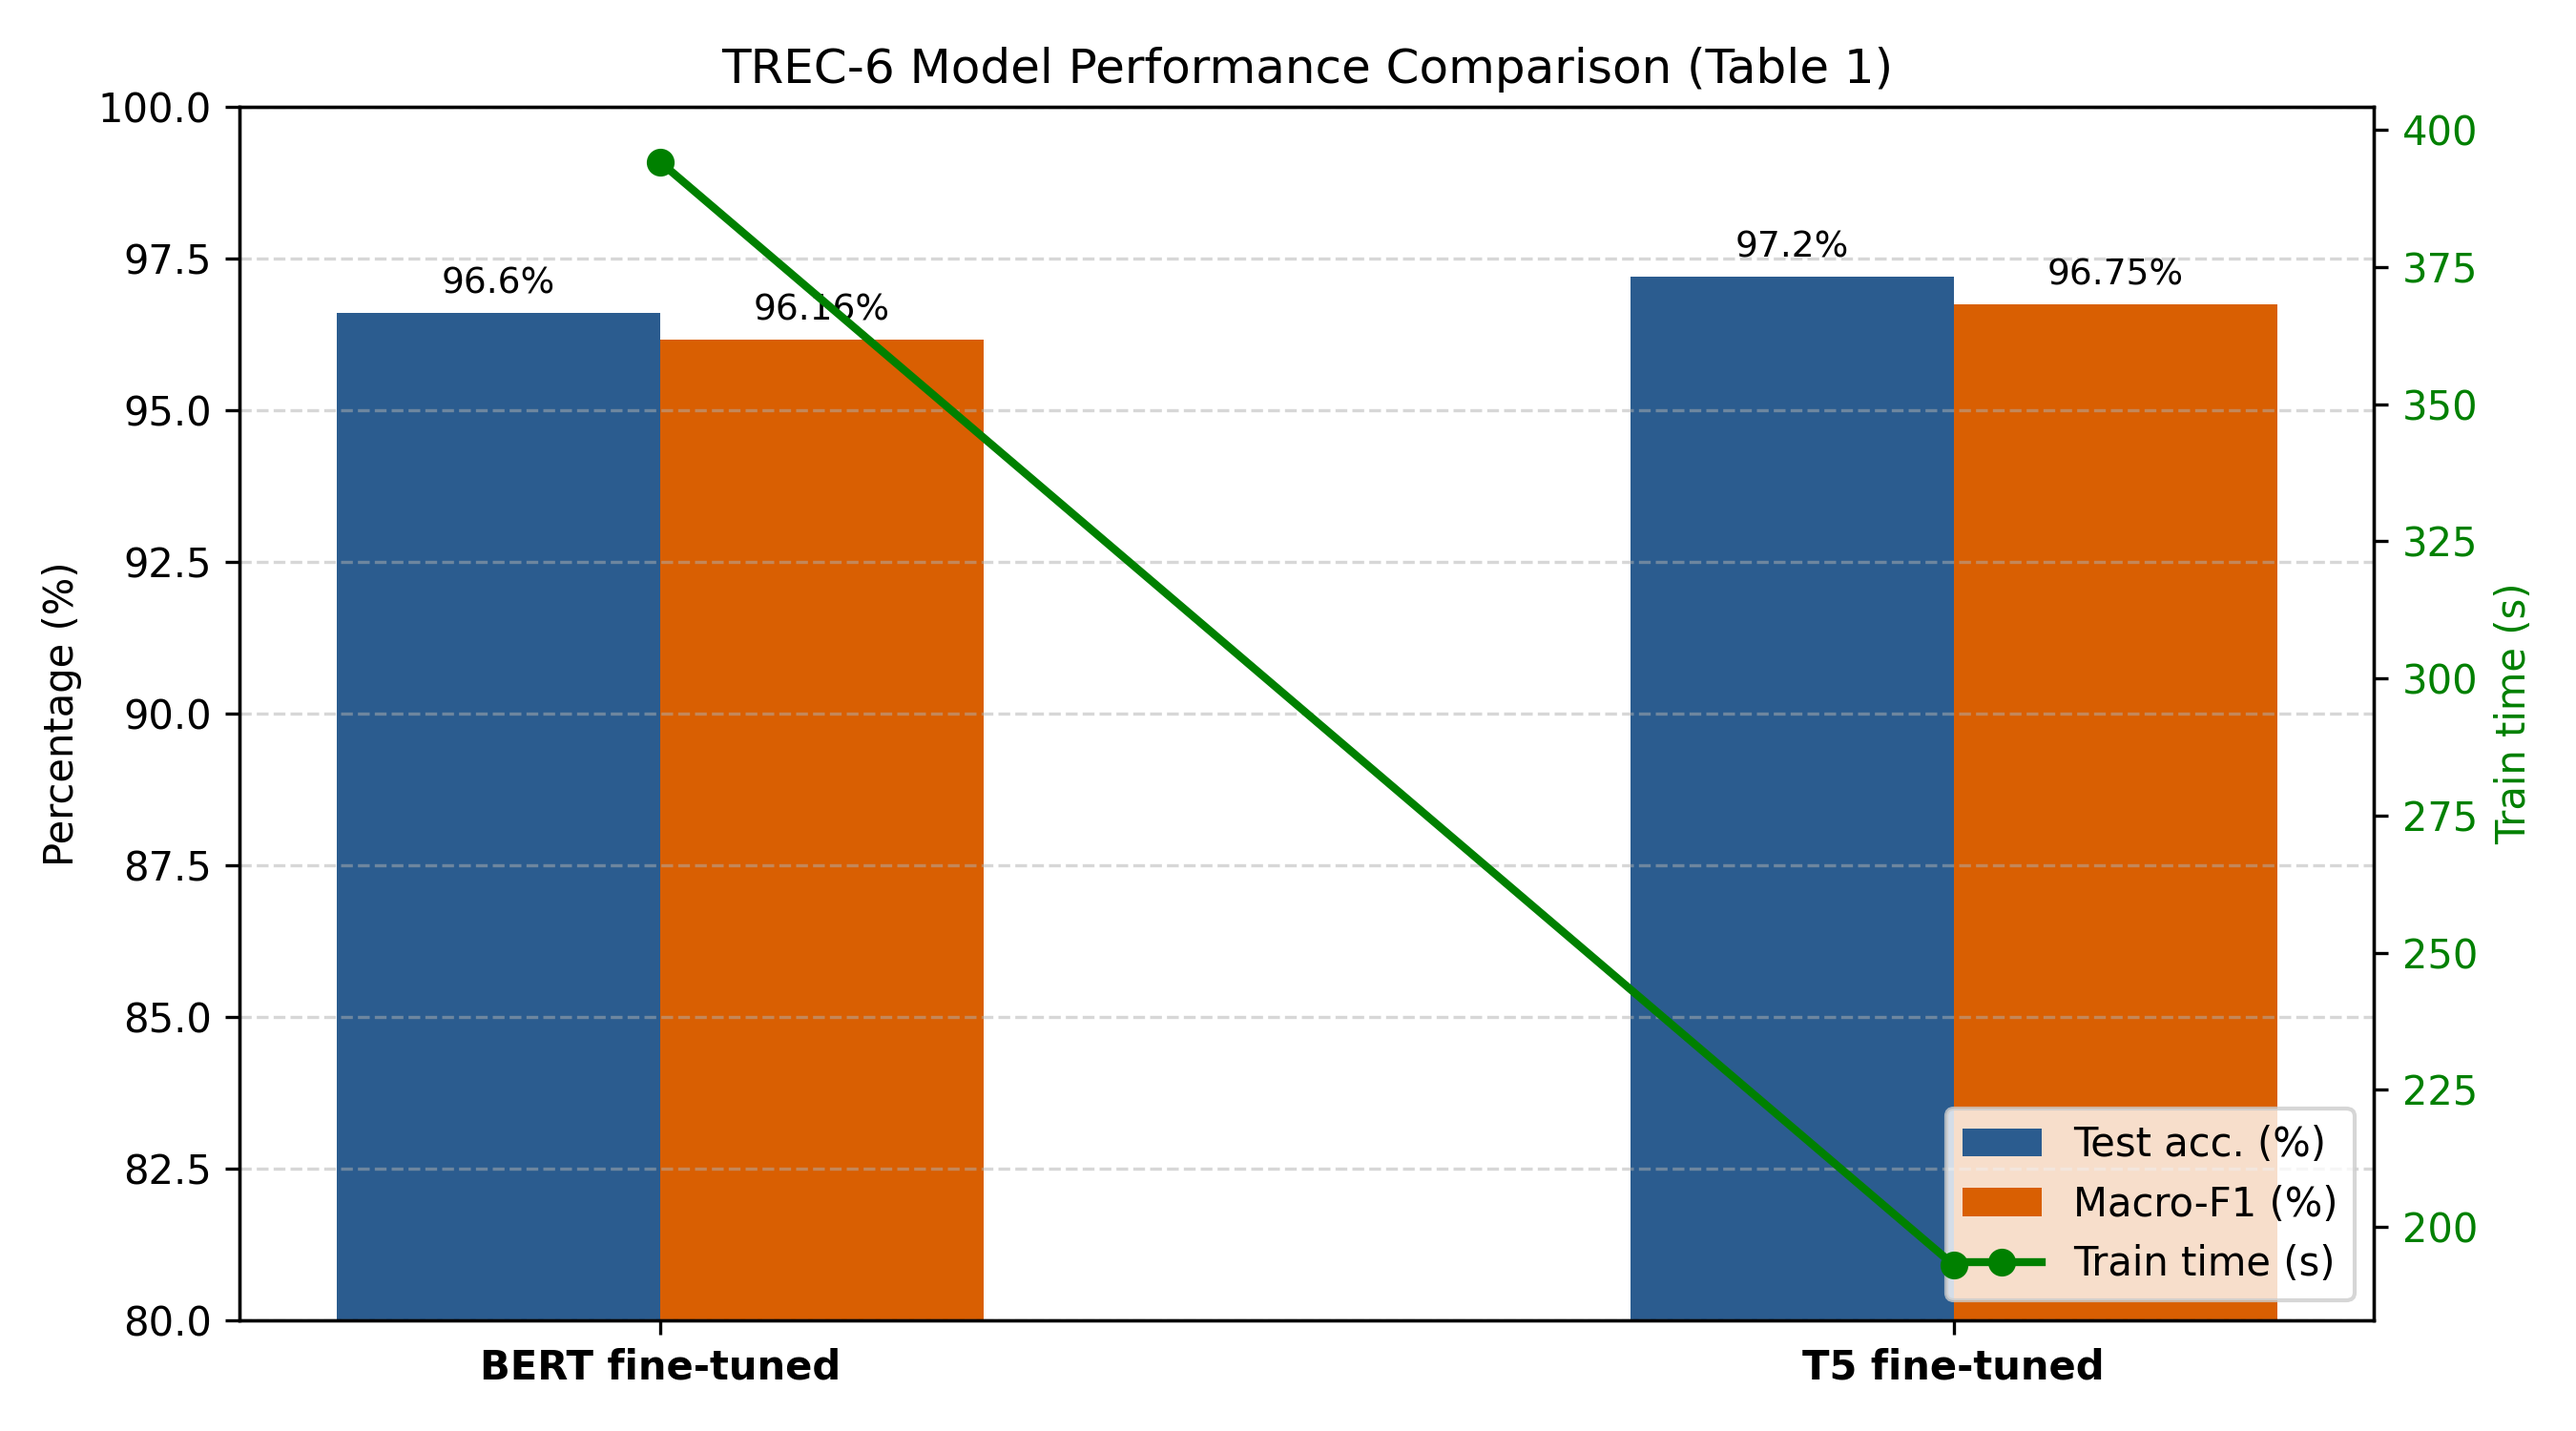
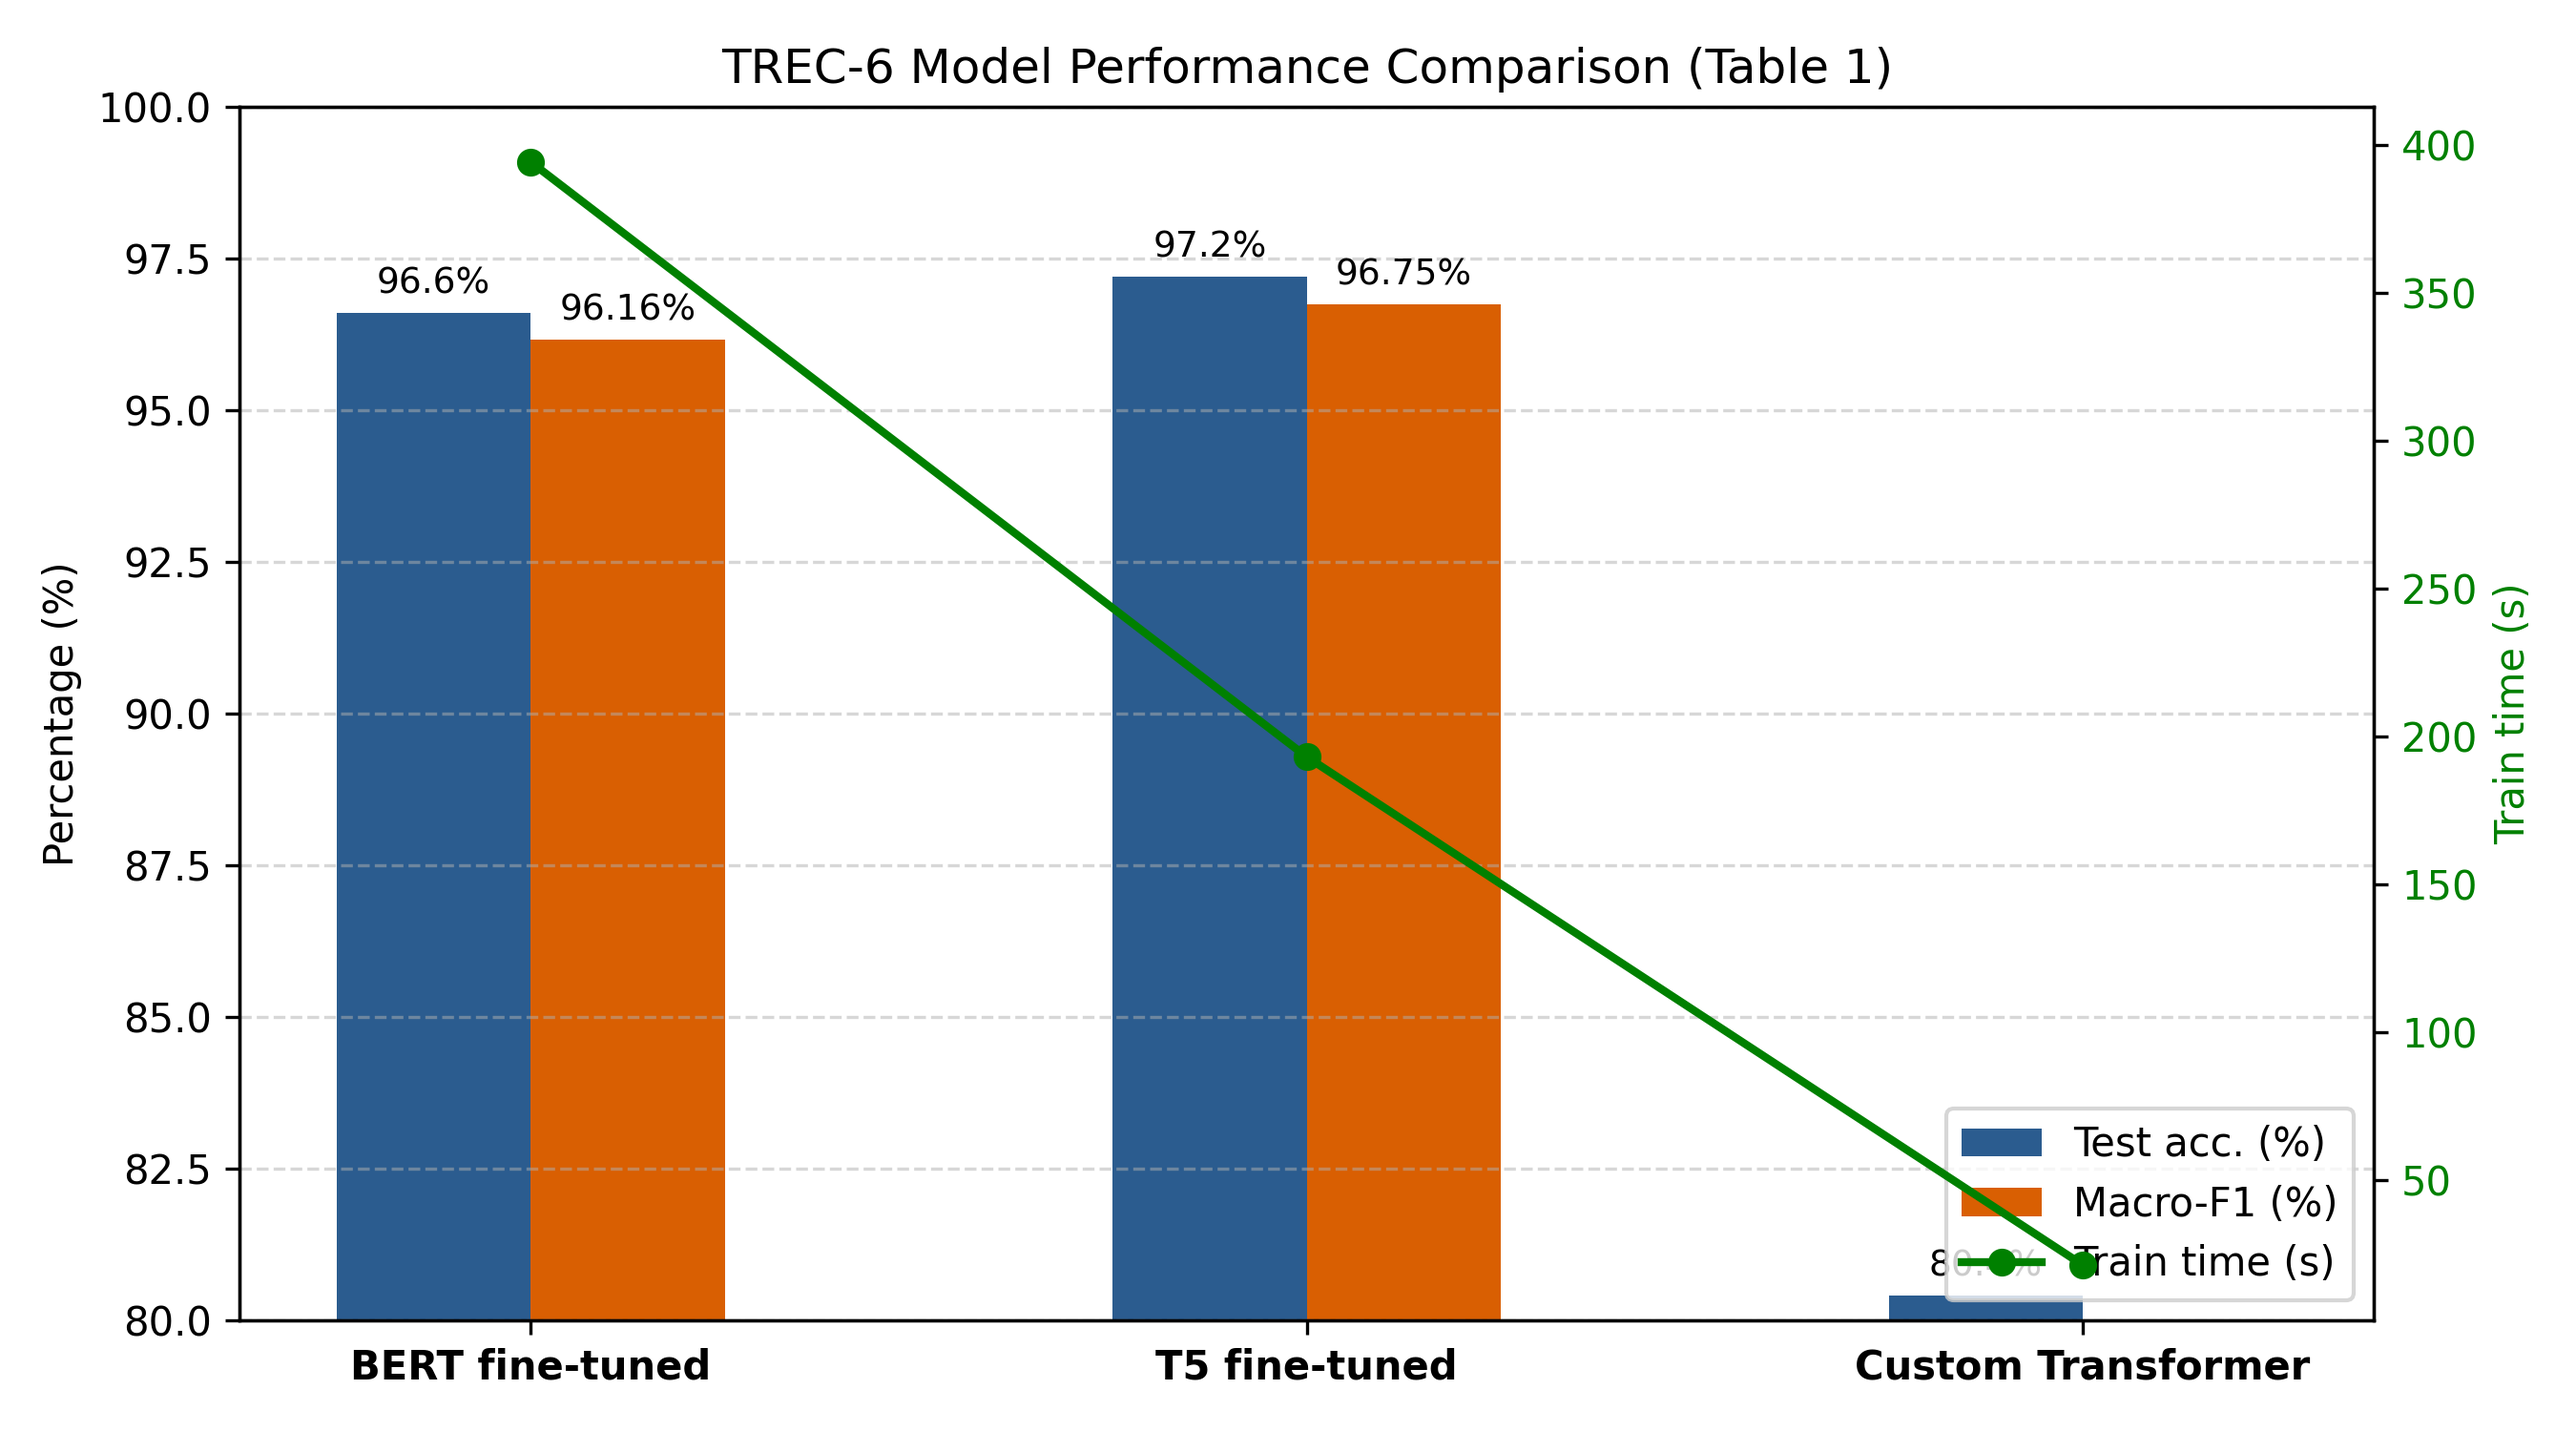
Results from Task 3.2b -- without checkpoints

diff --git a/src/verify_custom_transformer.py b/src/verify_custom_transformer.py
@@ -1,0 +1,109 @@
+import torch
+import torch.nn as nn
+from task_3_2_custom_transformer import CustomTransformerClassifier
+
+def run_verifications():
+    print("=" * 70)
+    print("      TASK 3.2.B: CORRECTNESS EVIDENCE & VERIFICATION AUDIT")
+    print("=" * 70)
+
+    vocab_size = 30522  # BERT tokenizer vocabulary size
+    model = CustomTransformerClassifier(
+        vocab_size=vocab_size,
+        d_model=128,
+        num_heads=4,
+        d_ff=512,
+        depth=2,
+        num_classes=6,
+        dropout=0.1
+    )
+
+    # --------------------------------------------------------------------------
+    # CHECK 1: Forward-Pass Shapes & Divisibility Verification
+    # --------------------------------------------------------------------------
+    print("\n[CHECK 1] Shape & Divisibility Verification:")
+    assert model.blocks[0].attn.d_model % model.blocks[0].attn.num_heads == 0, (
+        "d_model must be divisible by H!"
+    )
+    d_h = model.blocks[0].attn.d_h
+    print(f"  ✓ d_model (128) is perfectly divisible by H (4) -> d_h = {d_h}")
+
+    # Combination 1: Batch 8, Length 32
+    combo1_in = torch.randint(1, 1000, (8, 32))
+    combo1_mask = torch.ones(8, 32)
+    out1 = model(combo1_in, combo1_mask)
+    print(f"  Combo 1 Input: [8, 32]   --> Output Logits Shape: {list(out1.shape)} (Expected: [8, 6])")
+    assert out1.shape == (8, 6), "Combo 1 output shape mismatch!"
+
+    # Combination 2: Batch 16, Length 64
+    combo2_in = torch.randint(1, 1000, (16, 64))
+    combo2_mask = torch.ones(16, 64)
+    out2 = model(combo2_in, combo2_mask)
+    print(f"  Combo 2 Input: [16, 64]  --> Output Logits Shape: {list(out2.shape)} (Expected: [16, 6])")
+    assert out2.shape == (16, 6), "Combo 2 output shape mismatch!"
+
+    # --------------------------------------------------------------------------
+    # CHECK 2: Padding Invariance Audit (Dropout Disabled)
+    # --------------------------------------------------------------------------
+    print("\n[CHECK 2] Padding Invariance Audit (Dropout Disabled):")
+    model.eval()  # Disable dropout for deterministic evaluation
+
+    # Original sequence with 5 real tokens and 5 padded tokens (pad_id = 0)
+    ids_padded = torch.tensor([[101, 2054, 2003, 1037, 102, 0, 0, 0, 0, 0]])
+    mask_padded = torch.tensor([[1, 1, 1, 1, 1, 0, 0, 0, 0, 0]])
+
+    # Change token IDs ONLY at masked padding positions (indices 5..9)
+    ids_modified = torch.tensor([[101, 2054, 2003, 1037, 102, 999, 888, 777, 666, 555]])
+    mask_modified = torch.tensor([[1, 1, 1, 1, 1, 0, 0, 0, 0, 0]])
+
+    with torch.no_grad():
+        logits_orig = model(ids_padded, mask_padded)
+        logits_mod = model(ids_modified, mask_modified)
+
+    diff = torch.max(torch.abs(logits_orig - logits_mod)).item()
+    print(f"  Logits Max Absolute Difference: {diff:.8e}")
+    assert diff < 1e-5, f"Padding leak detected! Logits changed by {diff:.8e}"
+    print("  ✓ PASSED: Logits are strictly unchanged when altering padded token IDs (< 1e-5 tolerance).")
+
+    # --------------------------------------------------------------------------
+    # CHECK 3: Finite Loss, Gradient Flow & 32-Sample Overfitting Check
+    # --------------------------------------------------------------------------
+    print("\n[CHECK 3] Gradient Flow & Overfitting Tiny Batch:")
+    model.train()
+    optimizer = torch.optim.AdamW(model.parameters(), lr=1e-3)
+    criterion = nn.CrossEntropyLoss()
+
+    tiny_ids = torch.randint(1, 1000, (32, 32))
+    tiny_mask = torch.ones(32, 32)
+    tiny_targets = torch.randint(0, 6, (32,))
+
+    initial_loss = None
+    for step in range(50):
+        optimizer.zero_grad()
+        logits = model(tiny_ids, tiny_mask)
+        loss = criterion(logits, tiny_targets)
+        
+        if step == 0:
+            initial_loss = loss.item()
+
+        loss.backward()
+        optimizer.step()
+
+    # Check finite gradients across all active parameter tensors
+    has_grads = all(
+        p.grad is not None and torch.isfinite(p.grad).all()
+        for p in model.parameters()
+        if p.requires_grad
+    )
+
+    print(f"  Initial Batch Loss (Step 0):   {initial_loss:.4f}")
+    print(f"  Overfit Batch Loss (Step 50):  {loss.item():.4f}")
+    print(f"  Finite Gradient Check:        {'✓ PASSED' if has_grads and torch.isfinite(loss) else 'FAILED'}")
+
+    assert loss.item() < 0.1, f"Model failed to overfit tiny 32-sample batch! Loss = {loss.item():.4f}"
+    print("  ✓ PASSED: Model overfits 32-sample batch cleanly (loss < 0.10).")
+    print("=" * 70)
+
+
+if __name__ == "__main__":
+    run_verifications()
